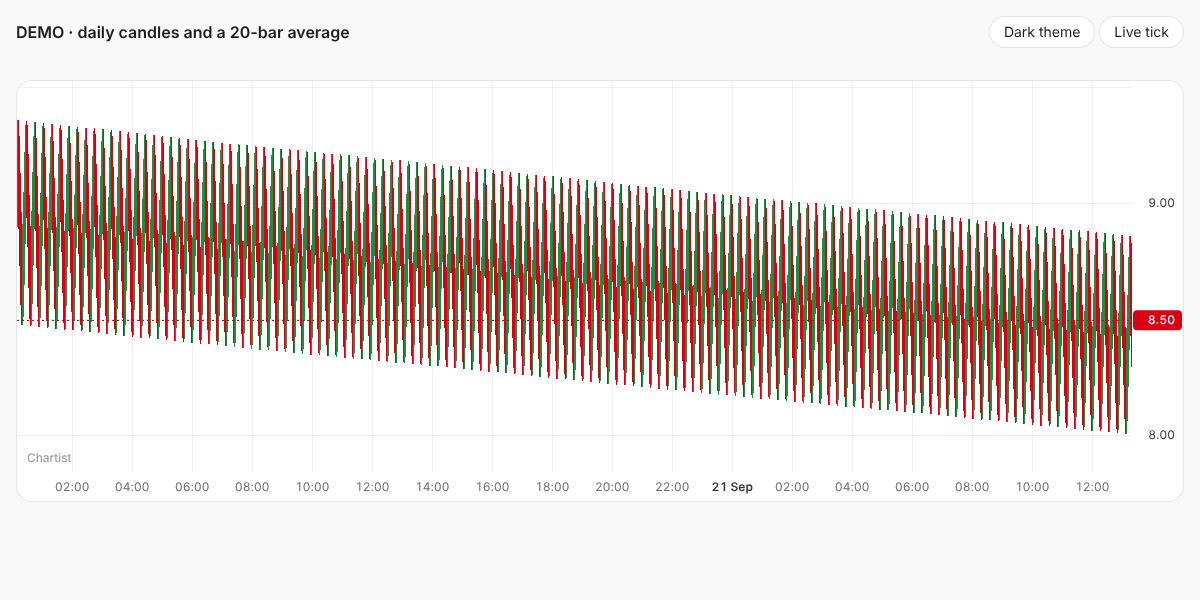
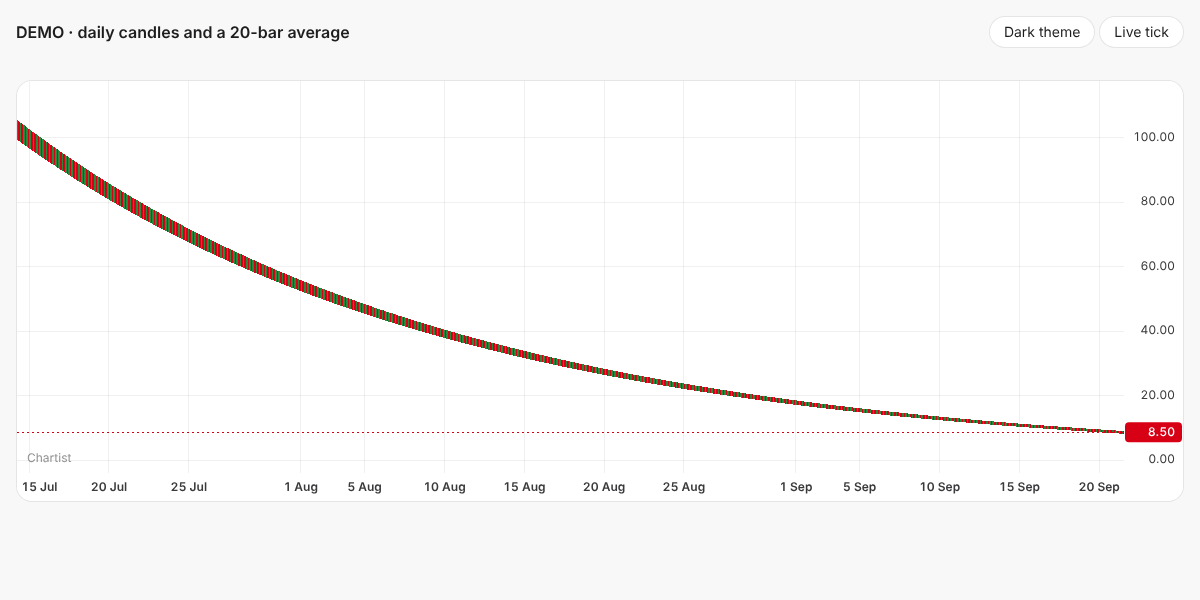
feat(chartist-lite): chartist-chart custom element, React wrapper and embedding guide (work in progress)
Claude-Session: https://claude.ai/code/session_01ExJ6mdDp2qtjWTeRFWUfz3

diff --git a/examples/panes.html b/examples/panes.html
@@ -1,0 +1,93 @@
+<!doctype html>
+<html lang="en">
+<head>
+<meta charset="utf-8">
+<meta name="viewport" content="width=device-width, initial-scale=1">
+<title>Chartist Lite: panes</title>
+<style>
+  :root { color-scheme: light; --bg: #F8F8F8; --ink: #1D1D1F; --muted: #6E6E73; --card: #FFFFFF; --edge: rgba(0,0,0,0.1); }
+  :root[data-theme="dark"] { color-scheme: dark; --bg: #0C0C0C; --ink: #F5F5F7; --muted: #98989D; --card: #141414; --edge: rgba(255,255,255,0.12); }
+  body { margin: 0; padding: 16px; background: var(--bg); color: var(--ink);
+    font: 400 14px/1.4 -apple-system, BlinkMacSystemFont, "Segoe UI", Roboto, "Helvetica Neue", Arial, sans-serif; }
+  header { display: flex; align-items: center; justify-content: space-between; gap: 12px; margin-bottom: 12px; flex-wrap: wrap; }
+  h1 { font-size: 16px; font-weight: 600; margin: 0; }
+  button { font: inherit; height: 32px; padding: 0 14px; border-radius: 999px; border: 1px solid var(--edge);
+    background: var(--card); color: var(--ink); cursor: pointer; }
+  button:focus-visible { outline: 2px solid #0066CC; outline-offset: 2px; }
+  #chart { height: 520px; border-radius: 16px; overflow: hidden; border: 1px solid var(--edge); background: var(--card); }
+</style>
+</head>
+<body>
+<header>
+  <h1>DEMO · price, volume and benchmark above, RSI 14 below</h1>
+  <div>
+    <button id="theme" type="button">Dark theme</button>
+    <button id="fit" type="button">Show all</button>
+  </div>
+</header>
+<div id="chart"></div>
+<script src="../dist/chartist-lite.iife.min.js"></script>
+<script>
+  function makeBars(count, seed) {
+    let s = seed >>> 0;
+    const rand = () => ((s = (s * 1664525 + 1013904223) >>> 0) / 4294967296);
+    const bars = [];
+    let close = 100;
+    let day = Date.UTC(2023, 0, 2) / 1000;
+    while (bars.length < count) {
+      const wd = new Date(day * 1000).getUTCDay();
+      if (wd !== 0 && wd !== 6) {
+        const open = close;
+        close = Math.max(1, open * (1 + (rand() - 0.49) * 0.04));
+        const high = Math.max(open, close) * (1 + rand() * 0.012);
+        const low = Math.min(open, close) * (1 - rand() * 0.012);
+        bars.push({ time: new Date(day * 1000).toISOString().slice(0, 10), open: +open.toFixed(2), high: +high.toFixed(2),
+          low: +low.toFixed(2), close: +close.toFixed(2), volume: Math.round(200000 + rand() * 800000) });
+      }
+      day += 86400;
+    }
+    return bars;
+  }
+  // Wilder's RSI, written out here so the example needs only the core bundle.
+  function rsi(bars, n) {
+    const out = [];
+    let gain = 0, loss = 0;
+    for (let i = 0; i < bars.length; i++) {
+      if (i === 0) { out.push({ time: bars[i].time }); continue; }
+      const d = bars[i].close - bars[i - 1].close;
+      const g = Math.max(0, d), l = Math.max(0, -d);
+      if (i <= n) { gain += g / n; loss += l / n; } else { gain = (gain * (n - 1) + g) / n; loss = (loss * (n - 1) + l) / n; }
+      out.push(i < n ? { time: bars[i].time } : { time: bars[i].time, value: +(loss === 0 ? 100 : 100 - 100 / (1 + gain / loss)).toFixed(2) });
+    }
+    return out;
+  }
+
+  const L = ChartistLite;
+  const bars = makeBars(600, 7);
+  const chart = L.createChart('chart', { theme: 'light', ariaLabel: 'DEMO daily price chart with RSI' });
+  const candles = chart.addSeries(L.CandlestickSeries, { title: 'DEMO' });
+  candles.setData(bars);
+  const volume = chart.addSeries(L.HistogramSeries, { title: 'Volume', priceScaleId: 'volume', lastValueVisible: false, priceLineVisible: false, priceFormat: { precision: 0, minMove: 1 } });
+  chart.priceScale('volume').applyOptions({ scaleMargins: { top: 0.82, bottom: 0 } });
+  volume.setData(bars.map(b => ({ time: b.time, value: b.volume })));
+  // A benchmark on the LEFT scale: a different price range, read on its own axis.
+  const bench = chart.addSeries(L.LineSeries, { title: 'Benchmark', priceScaleId: 'left', lineWidth: 1, color: '#8E8E93', lastValueVisible: true, priceLineVisible: false, priceFormat: { precision: 0, minMove: 1 } });
+  bench.setData(bars.map((b, i) => ({ time: b.time, value: Math.round(18000 + (b.close - 100) * 60 + Math.sin(i / 20) * 300) })));
+
+  const rsiLine = chart.addSeries(L.LineSeries, { title: 'RSI 14', lineWidth: 2, priceLineVisible: false }, 1);
+  rsiLine.setData(rsi(bars, 14));
+  L.createPriceLine(rsiLine, { price: 70, lineStyle: 'dotted', axisLabelVisible: false });
+  L.createPriceLine(rsiLine, { price: 30, lineStyle: 'dotted', axisLabelVisible: false });
+
+  document.getElementById('theme').addEventListener('click', e => {
+    const dark = document.documentElement.dataset.theme !== 'dark';
+    document.documentElement.dataset.theme = dark ? 'dark' : 'light';
+    chart.applyOptions({ theme: dark ? 'dark' : 'light' });
+    e.currentTarget.textContent = dark ? 'Light theme' : 'Dark theme';
+  });
+  document.getElementById('fit').addEventListener('click', () => chart.timeScale().fitContent());
+
+  window.__demo = { chart, candles, volume, bench, rsiLine, bars };
+</script>
+</body>
+</html>

diff --git a/docs/EMBEDDING.md b/docs/EMBEDDING.md
@@ -212,5 +212,5 @@ allow its own script and its data URL in `connect-src`.
 Tested in Chromium (`scripts/screenshots-element.cjs`): ways 1, 2, 3 and 4 as the example pages, light and dark;
 lazy creation; remove and re-add twelve times; attribute changes; a missing `src`; React updates without
 re-creation; React under `StrictMode` including unmount; React server rendering with `react-dom/server`; no console
-errors. Not tested: other browsers, WordPress or any specific CMS, content security policies, and React versions
+errors. Not tested: other browsers, a page with JavaScript off (the fallback content rule follows from how browsers treat unknown tags), WordPress or any specific CMS, content security policies, `::part(frame)` styling, and React versions
 other than 19.
